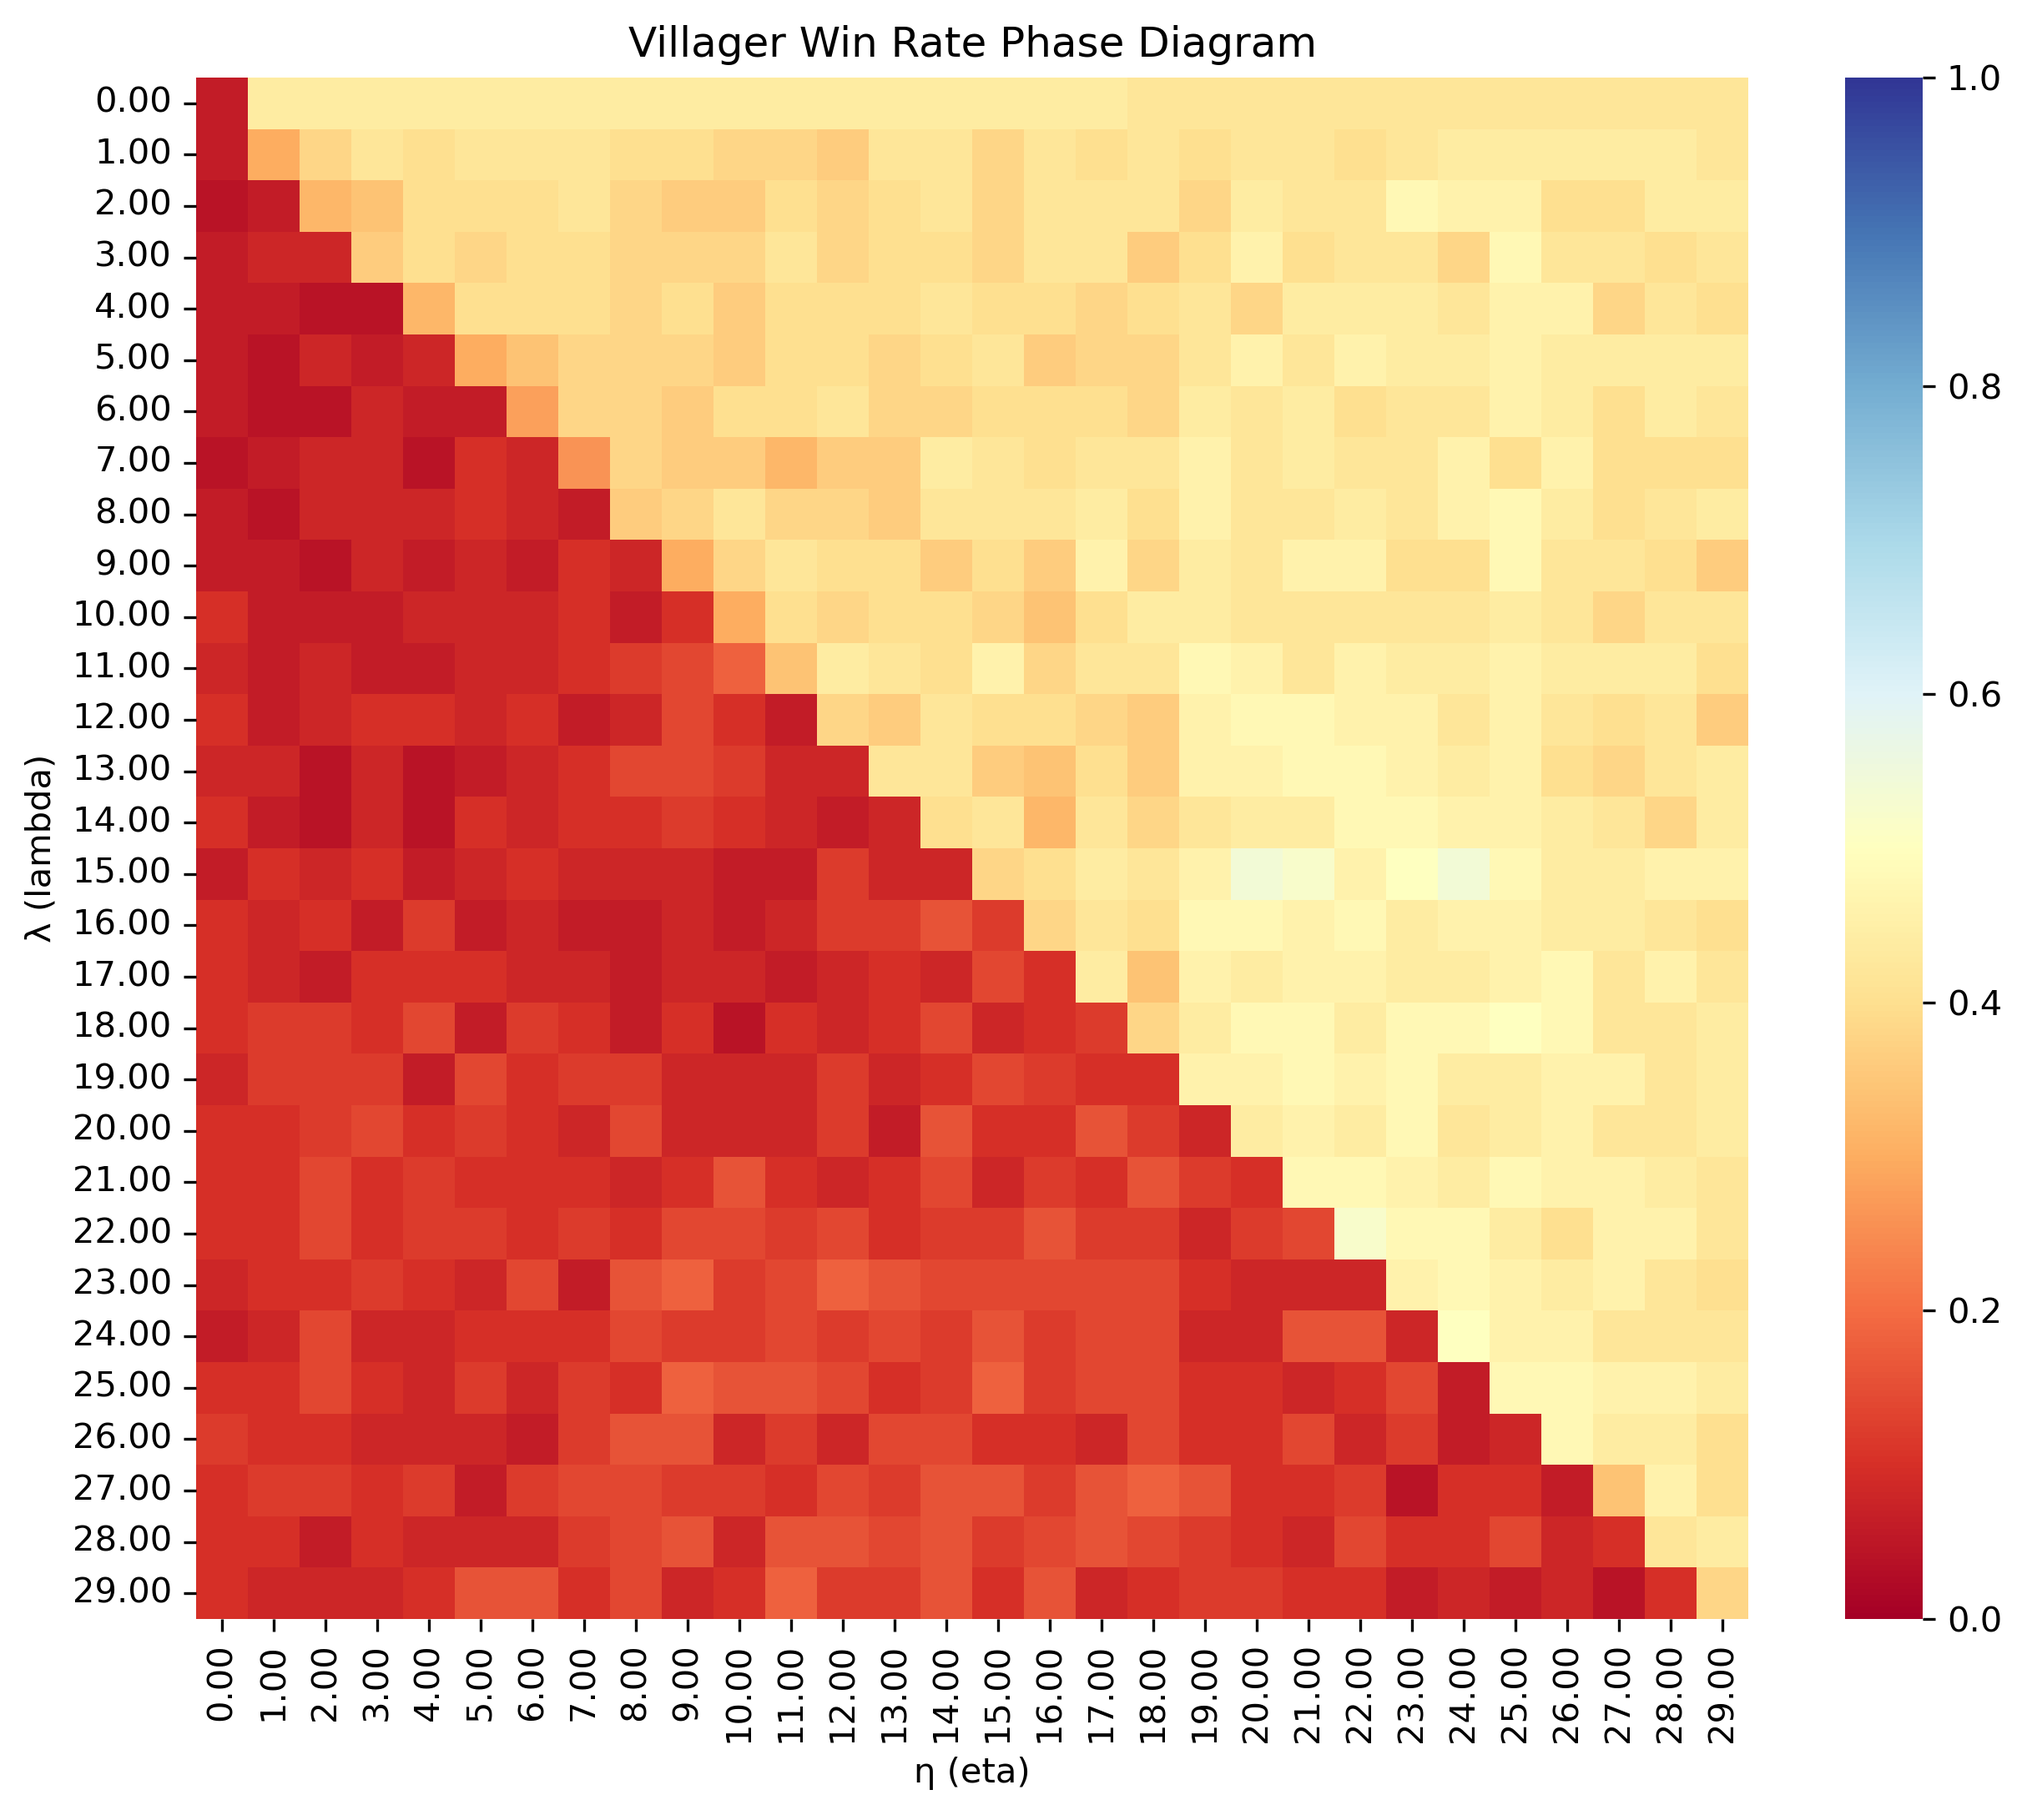
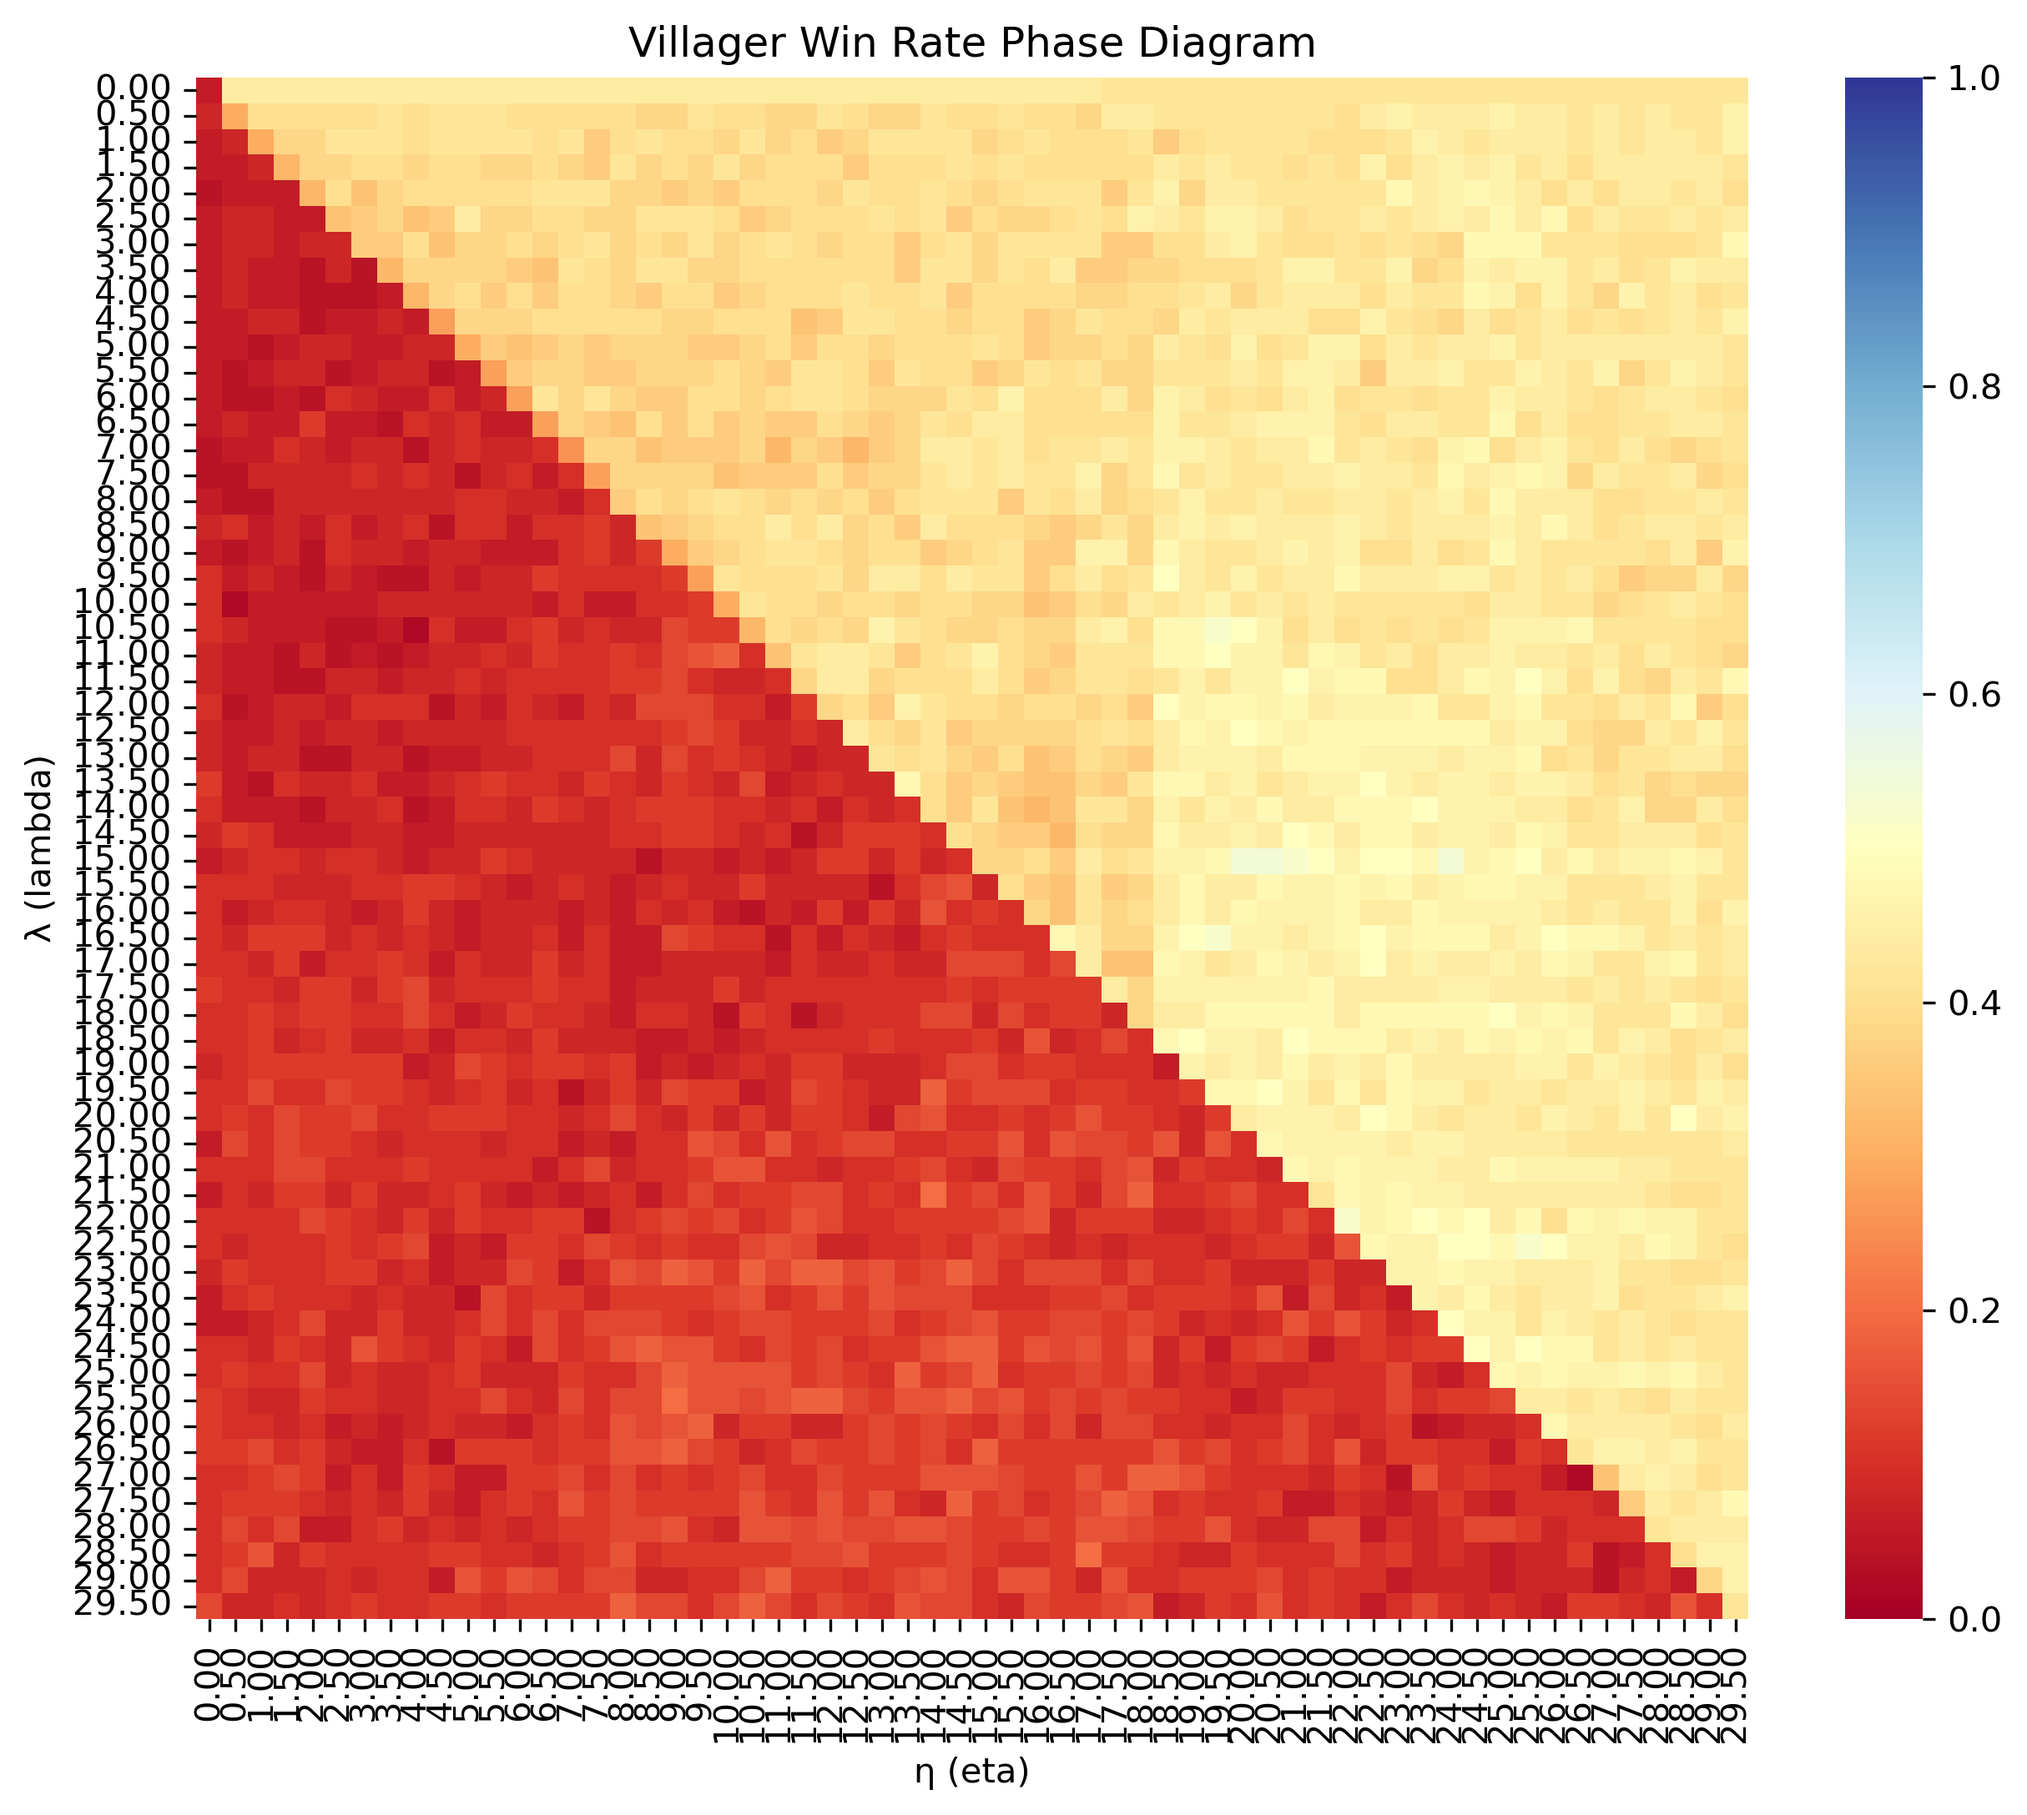
update little girl

diff --git a/src/main.py b/src/main.py
@@ -5,7 +5,7 @@ import random
 import os
 from utils.logs import save_beliefs
 
-def main(Players = [2, 10], verbose=False, seed=None, log_dir='logs', update_params=[0.15, 0.15, 0.2, 0.3], is_little_girl=False, save_logs=True):
+def main(Players = [4, 16], verbose=False, seed=None, log_dir='logs', update_params=[25, 25, 25, 0.3], is_little_girl=False, save_logs=True):
     """
     Run a complete werewolf game simulation.
     
@@ -50,9 +50,9 @@ def main(Players = [2, 10], verbose=False, seed=None, log_dir='logs', update_par
             print(f"Night phase - {game.get_wolves_count()} werewolves, {game.get_villagers_count()} villagers")
         
         # Night phase
-        eliminated_night = game.night_shift()
+        eliminated_night, eliminated_role = game.night_shift()
         if verbose:
-            print(f"🌙 Werewolves eliminated villager {eliminated_night}")
+            print(f"🌙 Werewolves eliminated villager {eliminated_night} who was a {eliminated_role}")
         
         # Check win condition after night
         winner = game.check_game_over()
@@ -92,10 +92,11 @@ def main(Players = [2, 10], verbose=False, seed=None, log_dir='logs', update_par
 
 if __name__ == "__main__":
     parser = argparse.ArgumentParser(description='Run a Werewolf game simulation.')
+    parser.add_argument('--is_little_girl', action='store_true', help="Add a Little Girl among Villagers", default=False)
     parser.add_argument('--verbose', '-v', action='store_true', help='Print detailed game progress')
     parser.add_argument('--seed', type=int, help='Random seed for reproducibility', default=None)
     parser.add_argument('--log_dir', type=str, help='Directory to save belief logs', default='logs')
     parser.add_argument('--save_logs', '-s', action='store_true', help='Save belief logs', default=False)
     args = parser.parse_args()
     
-    main(verbose=args.verbose, seed=args.seed, log_dir=args.log_dir, save_logs=args.save_logs)
+    main(verbose=args.verbose, seed=args.seed, log_dir=args.log_dir, save_logs=args.save_logs, is_little_girl=args.is_little_girl)

diff --git a/src/simulation.py b/src/simulation.py
@@ -61,8 +61,8 @@ def plot_phase_eta_lambda(nb_players=100, ratio_werewolf=0.1, nb_iter=100, is_li
         nb_iter (int): Number of games to simulate per parameter combination
     """
     # Create parameter ranges
-    eta_range = np.arange(0, 30, 1)
-    _lambda_range = np.arange(0, 30, 1)
+    eta_range = np.arange(0, 30, 0.5)
+    _lambda_range = np.arange(0, 30, 0.5)
     
     # Initialize results matrix
     results = np.zeros((len(_lambda_range), len(eta_range)))
@@ -96,11 +96,12 @@ def plot_phase_eta_lambda(nb_players=100, ratio_werewolf=0.1, nb_iter=100, is_li
         yticklabels=[f"{x:.2f}" for x in _lambda_range],
         cmap='RdYlBu',
         vmin=0,
-        vmax=1
+        vmax=1,   
     )
     
     plt.xlabel('η (eta)')
     plt.ylabel('λ (lambda)')
+    plt.xticks(rotation=90)
     plt.title('Villager Win Rate Phase Diagram')
     
     # Create logs directory if it doesn't exist

diff --git a/src/game/game.py b/src/game/game.py
@@ -304,12 +304,13 @@ class Game():
             if len(candidates) > 0:
                 # Randomly select one among the candidates with highest belief
                 eliminated_id = np.random.choice(candidates)
+                eliminated_role = self.alive[eliminated_id].role
                 self.eliminate_villager(eliminated_id)
 
                 # update the beliefs to take the night shift into account
                 self.update_beliefs_after_night_vote(eliminated_id)
 
-                return eliminated_id
+                return eliminated_id, eliminated_role
             
 
         return None

diff --git a/src/agent/little_girl.py b/src/agent/little_girl.py
@@ -4,7 +4,7 @@ from .agent import Agent
 from utils import softmax
 
 class LittleGirl(Agent):
-    def __init__(self, id, num_players, p_focus=0.5, seed=42):
+    def __init__(self, id, num_players, p_focus=0.3, seed=42):
         super().__init__(id, num_players, seed)
         self.beliefs = softmax(self.beliefs)
         self.id = id
